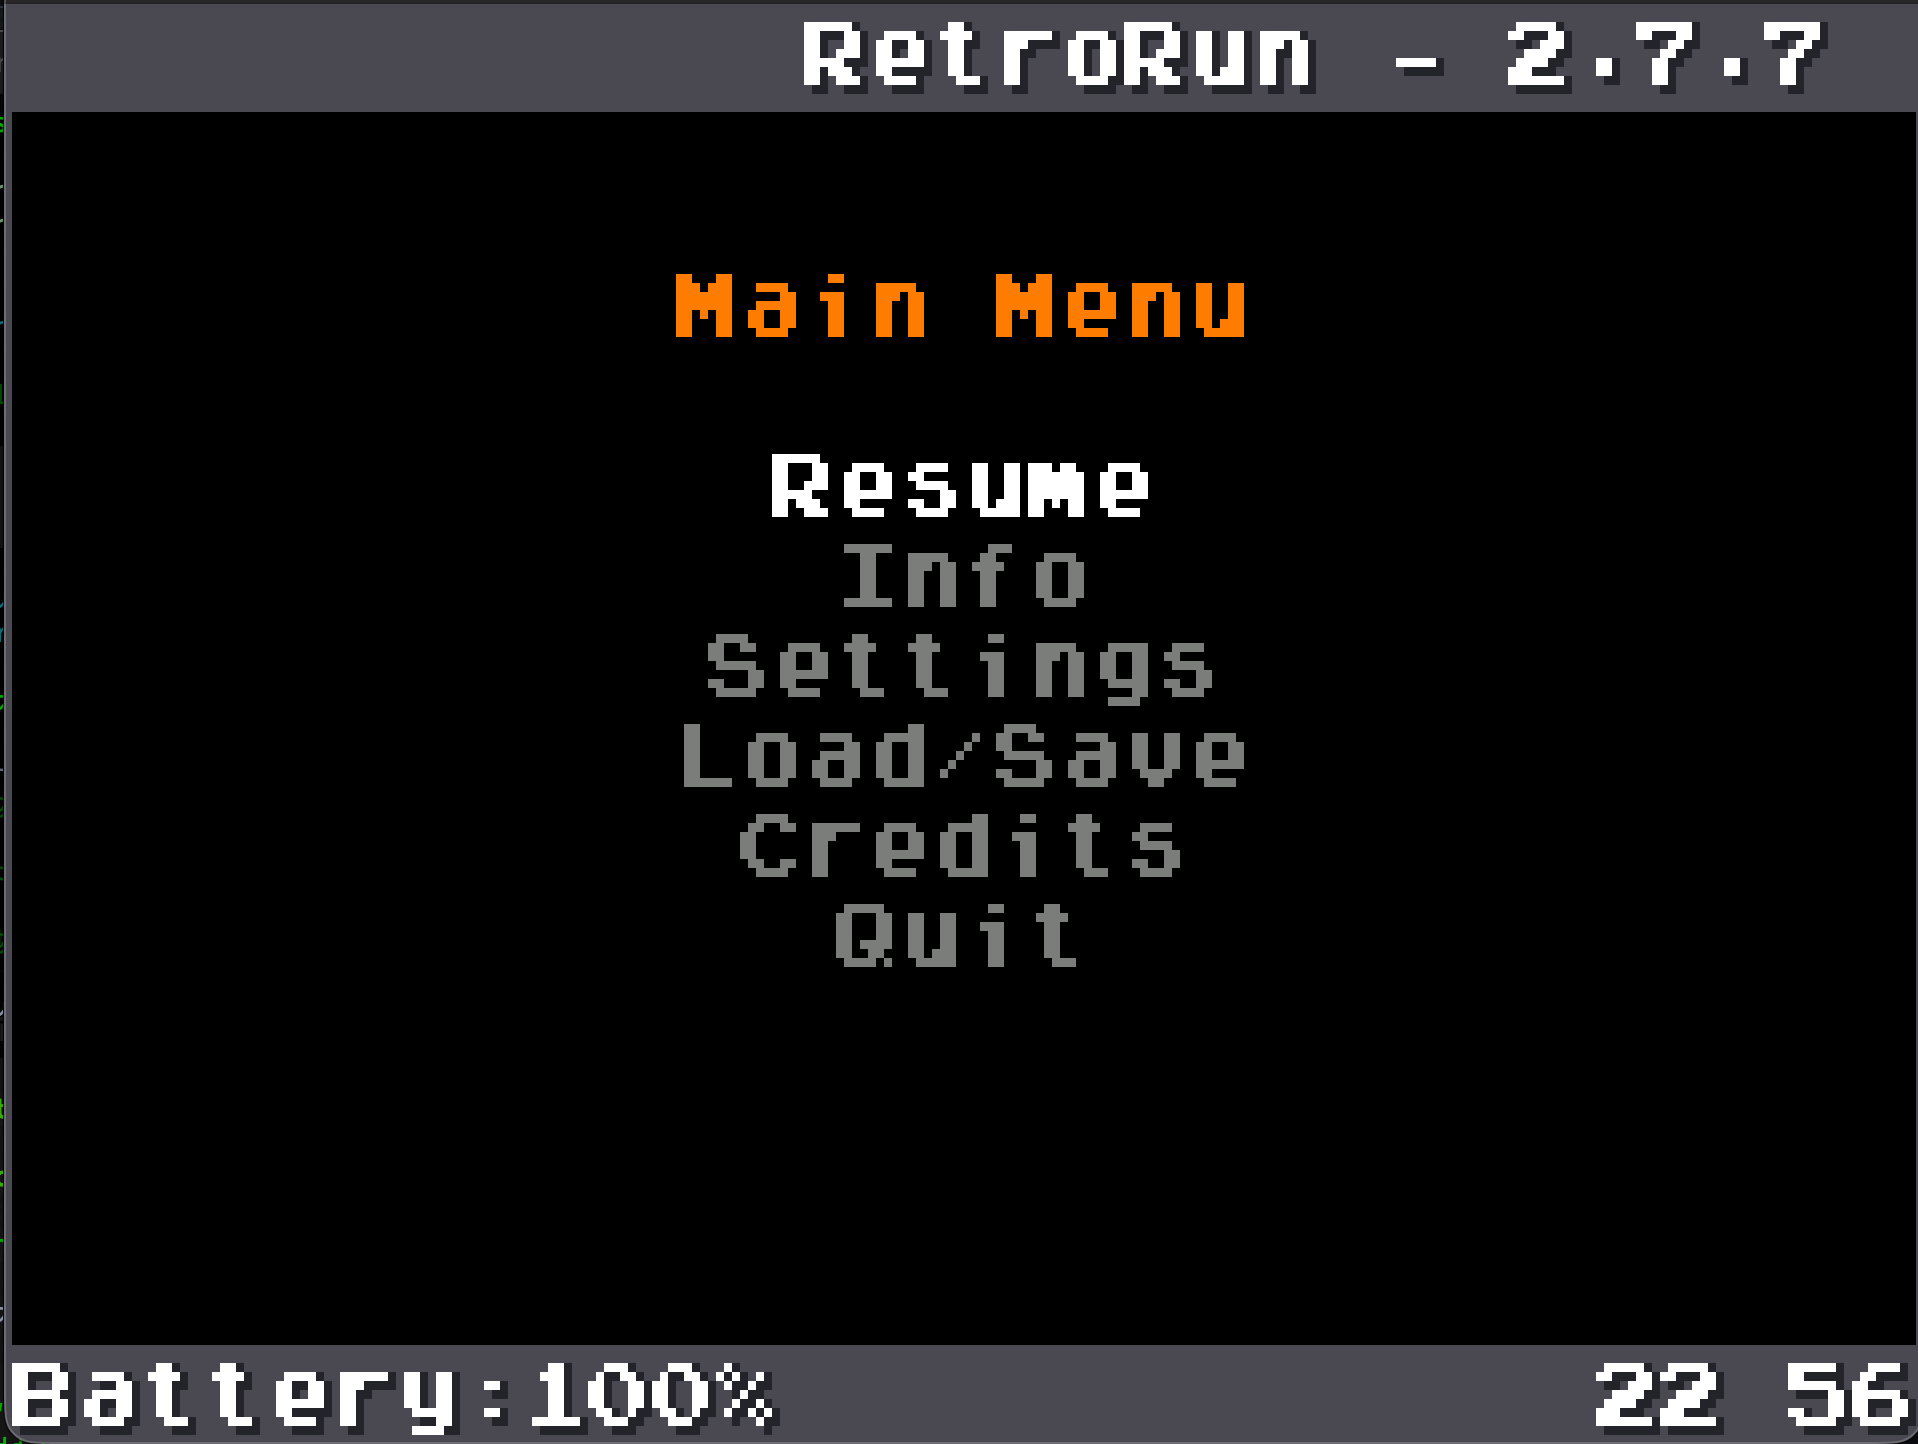
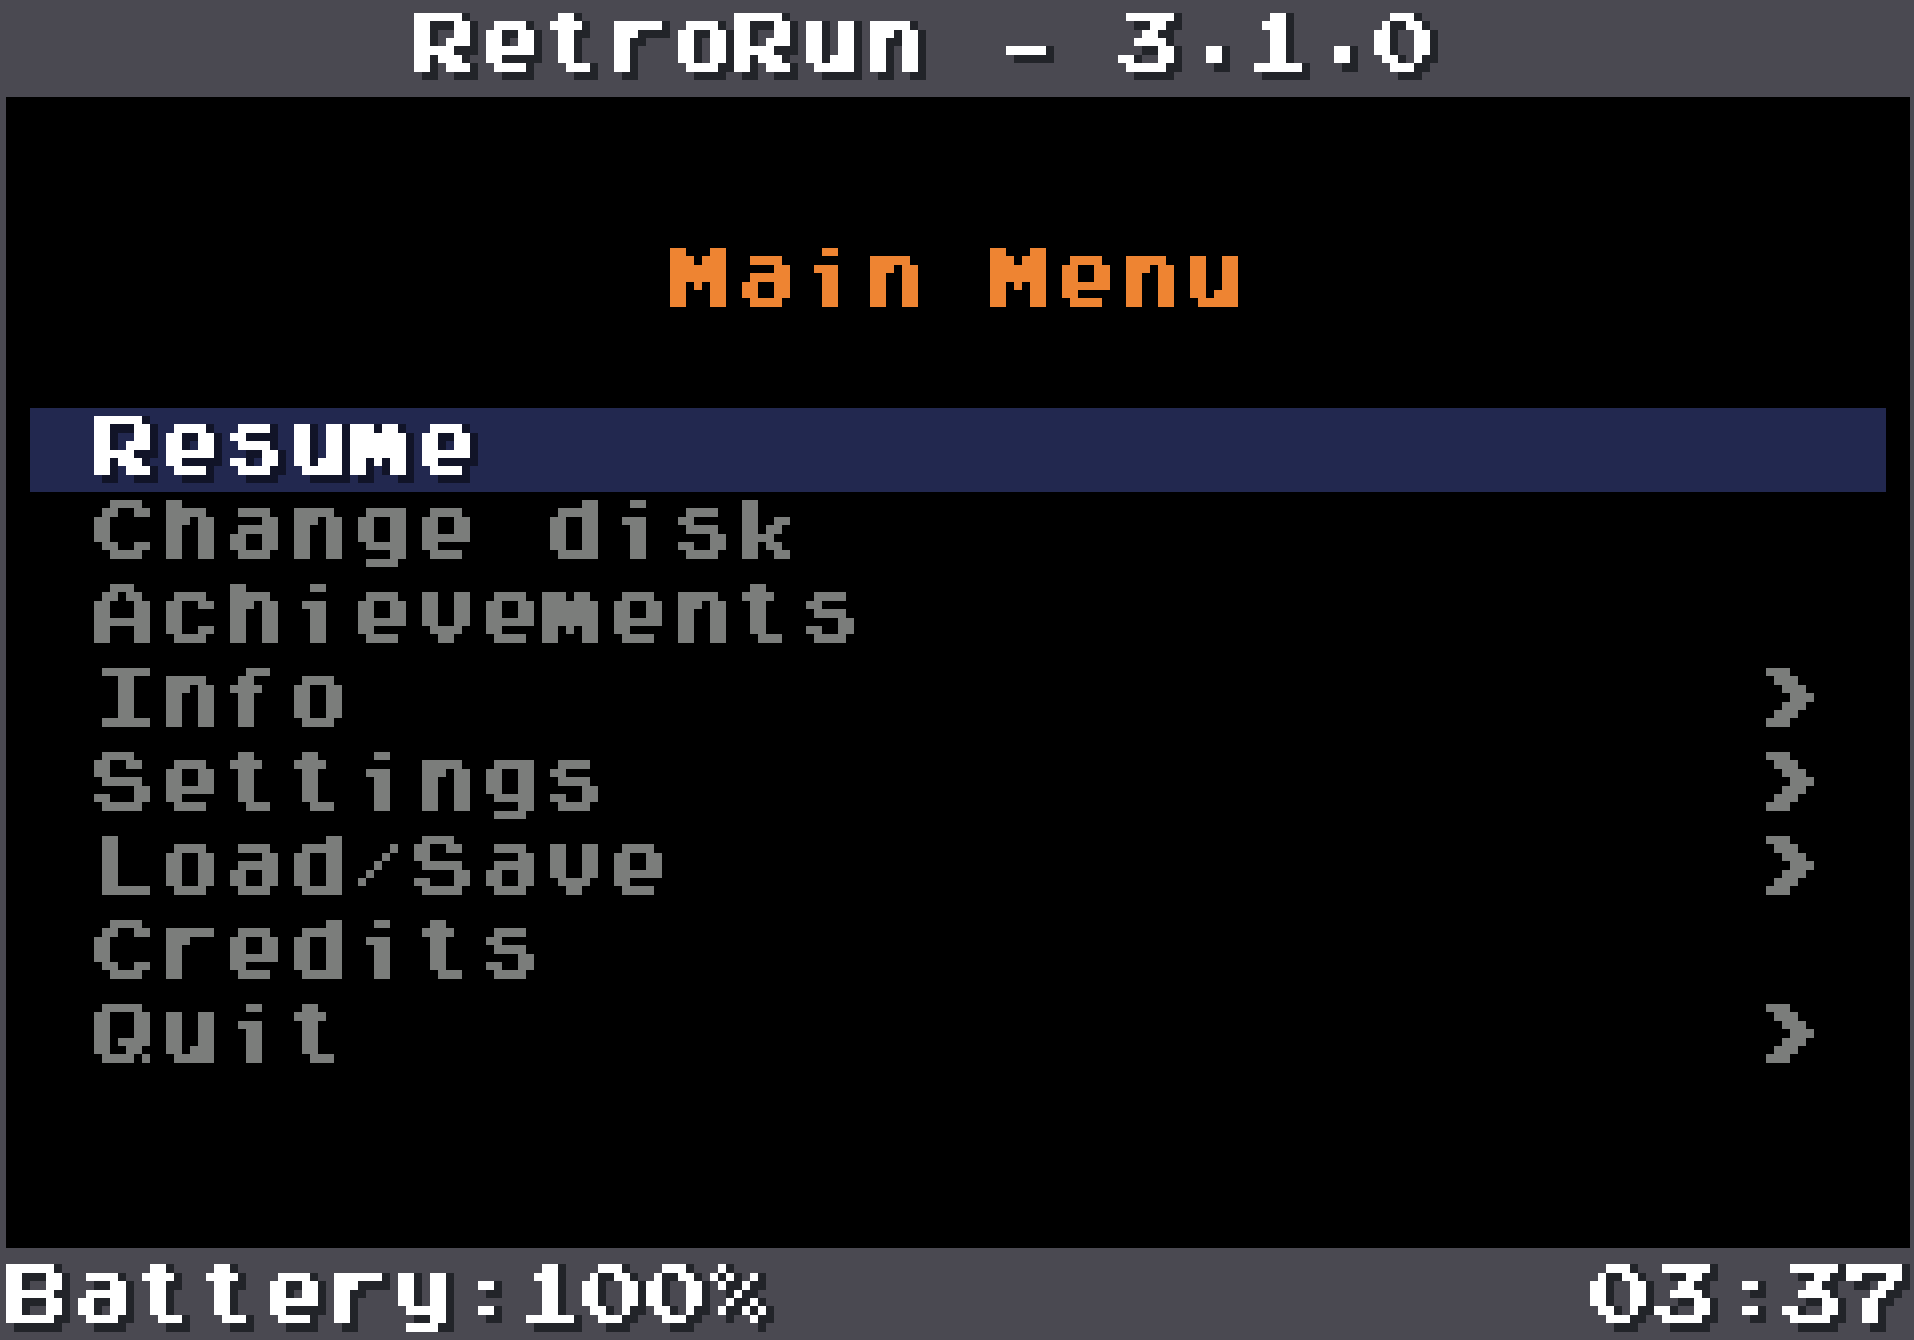
Update configuration example and menu screenshot

diff --git a/README.md b/README.md
@@ -286,27 +286,91 @@ RetroRun reads a simple `key = value` configuration file.
 - SDL2 default: `./retrorun.cfg` in the current working directory.
 - Every backend: pass `-c /path/to/retrorun.cfg` to select another file.
 
-The repository includes [retrorun.cfg](retrorun.cfg) as an SDL2-oriented
-example. A minimal portable configuration is:
+The configuration file (`retrorun.cfg`) contains settings for different cores.
+Example:
 
 ```ini
-retrorun_log_level = INFO
-retrorun_show_loading_screen = true
-retrorun_aspect_ratio = auto
-retrorun_pixel_perfect = false
-retrorun_fps_counter = false
-retrorun_loop_declared_fps = true
-retrorun_ui_profile = auto
-
-# SDL2 only
-retrorun_video_renderer = auto
-retrorun_vsync = false
-
-# All video backends
-retrorun_video_filter = off
-retrorun_video_shader = off
-retrorun_decorations = off
+# ---- RETRORUN INTERNAL SETTINGS ----
+retrorun_screenshot_folder = /storage/roms/screenshots
+# ---- FLYCAST ----
+flycast_threaded_rendering = enabled
+flycast_internal_resolution = 640x480
+flycast_anisotropic_filtering = off
+flycast_enable_dsp = disabled
+flycast_synchronous_rendering = disabled
+flycast_enable_rtt = disabled
+flycast_enable_rttb = disabled
+flycast_delay_frame_swapping = disabled
+# Alpha sorting should be set to per strip
+flycast_alpha_sorting = per-strip (fast, least accurate)
+flycast_div_matching = auto
+# Texupscale should be off
+flycast_texupscale = off
+# Vibration support should be on
+flycast_enable_purupuru = enabled
+flycast_auto_skip_frame = disabled
+flycast_gdrom_fast_loading = enabled
+flycast_volume_modifier_enable = disabled
+flycast_framerate = fullspeed
+flycast_anisotropic_filtering = disabled
+# ---- FLYCAST2021 ----
+flycast2021_threaded_rendering = enabled
+flycast2021_internal_resolution = 640x480
+flycast2021_anisotropic_filtering = off
+flycast2021_enable_dsp = disabled
+flycast2021_synchronous_rendering = disabled
+flycast2021_enable_rtt = disabled
+flycast2021_enable_rttb = disabled
+flycast2021_delay_frame_swapping = disabled
+# Alpha sorting should be set to per strip
+flycast2021_alpha_sorting = per-strip (fast, least accurate)
+flycast2021_div_matching = auto
+# Texupscale should be off
+flycast2021_texupscale = off
+# Vibration support should be on
+flycast2021_enable_purupuru = enabled
+flycast2021_gdrom_fast_loading = enabled
+flycast2021_volume_modifier_enable = disabled
+flycast2021_framerate = fullspeed
+flycast2021_anisotropic_filtering = disabled
+# ---- PARALLEL N64 ----
+parallel-n64-framerate = fullspeed
+parallel-n64-filtering = nearest
+parallel-n64-audio-buffer-size = 1024
+parallel-n64-gfxplugin-accuracy = medium
+parallel-n64-screensize = 640x480
+parallel-n64-gfxplugin = rice
+parallel-n64-pak1 = rumble
+parallel-n64-pak2 = memory
+parallel-n64-pak3 = none
+parallel-n64-pak4 = none
+# ---- JAGUAR ----
+virtualjaguar_doom_res_hack = enabled
+virtualjaguar_pal = disabled
+virtualjaguar_usefastblitter = enabled
+virtualjaguar_bios = enabled
+# ---- PPSSPP ----
+ppsspp_cpu_core = JIT
+#ppsspp_detect_vsync_swap_interval = disabled
+ppsspp_fast_memory = enabled
+ppsspp_frameskip = 0
+ppsspp_frameskiptype = Number of frames
+ppsspp_ignore_bad_memory_access = enabled
+ppsspp_internal_resolution = 480x272
+ppsspp_rendering_mode=buffered
+# ---- DUCKSTATION ----
+duckstation_CPU.Overclock = 100
+duckstation_Controller1.Type=AnalogController
+# ---- SWANSTATION ----
+swanstation_CPU_Overclock = 100
+swanstation_GPU_Renderer = Software
 ```
+
+(*) Pay attention to the parameter names, as they follow the naming convention
+of the core. For example, in some distributions, the Flycast core is named
+Reicast. In such cases, parameters should be prefixed accordingly—e.g.,
+`flycast_threaded_rendering` should be renamed to
+`reicast_threaded_rendering`.
 
 ### RetroAchievements
 
